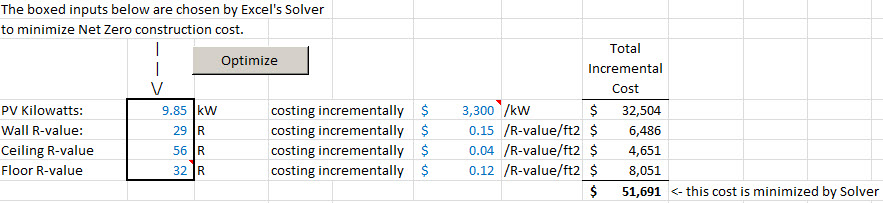
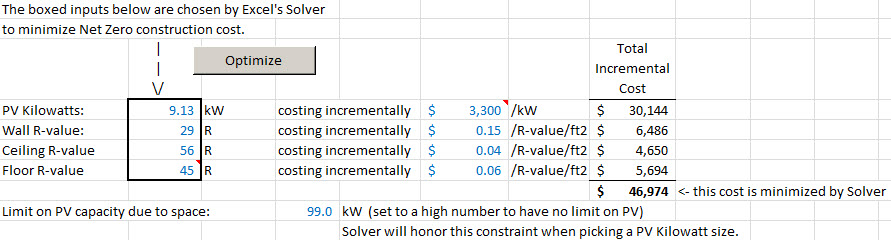
More explanation.

Changed region(s): [[0.0, 0.0, 1.0, 1.0]]

diff --git a/README.md b/README.md
@@ -22,5 +22,6 @@ Here is a screenshot of the key values that are optimized and the cost inputs as
 
 ![Optimization Inputs](images/opt_inputs.jpg)
 
+The thick bordered box on the left highlights the four characteristics that are manipulated in the optimizatio process.  The gray "Optimize" button starts the optimization, and Excel finds the cost-minimizing values for the PV capacity and the three R-values.  In this example, the home reached net zero and minimized construction cost with 9.13 kW of PV, R-29 Walls, R-56 ceilings, and R-45 floors (the model simplifies and assumes all R-values and PV outputs are possible.  The model could be modified to only allow certain discrete possibilities.)
 
 To Be Continued!
